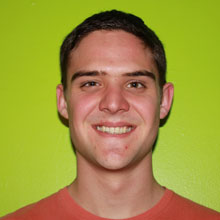
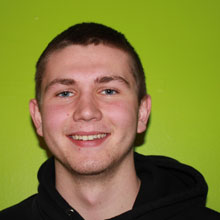
about us pics

diff --git a/app/assets/stylesheets/our-team.css b/app/assets/stylesheets/our-team.css
@@ -66,6 +66,10 @@
 	background-image: url(../img/profile/6.jpg);
 }
 
+.ch-img-7 { 
+	background-image: url(../img/profile/7.jpg);
+}
+
 .ch-info {
 	position: absolute;
 	width: 100%;
